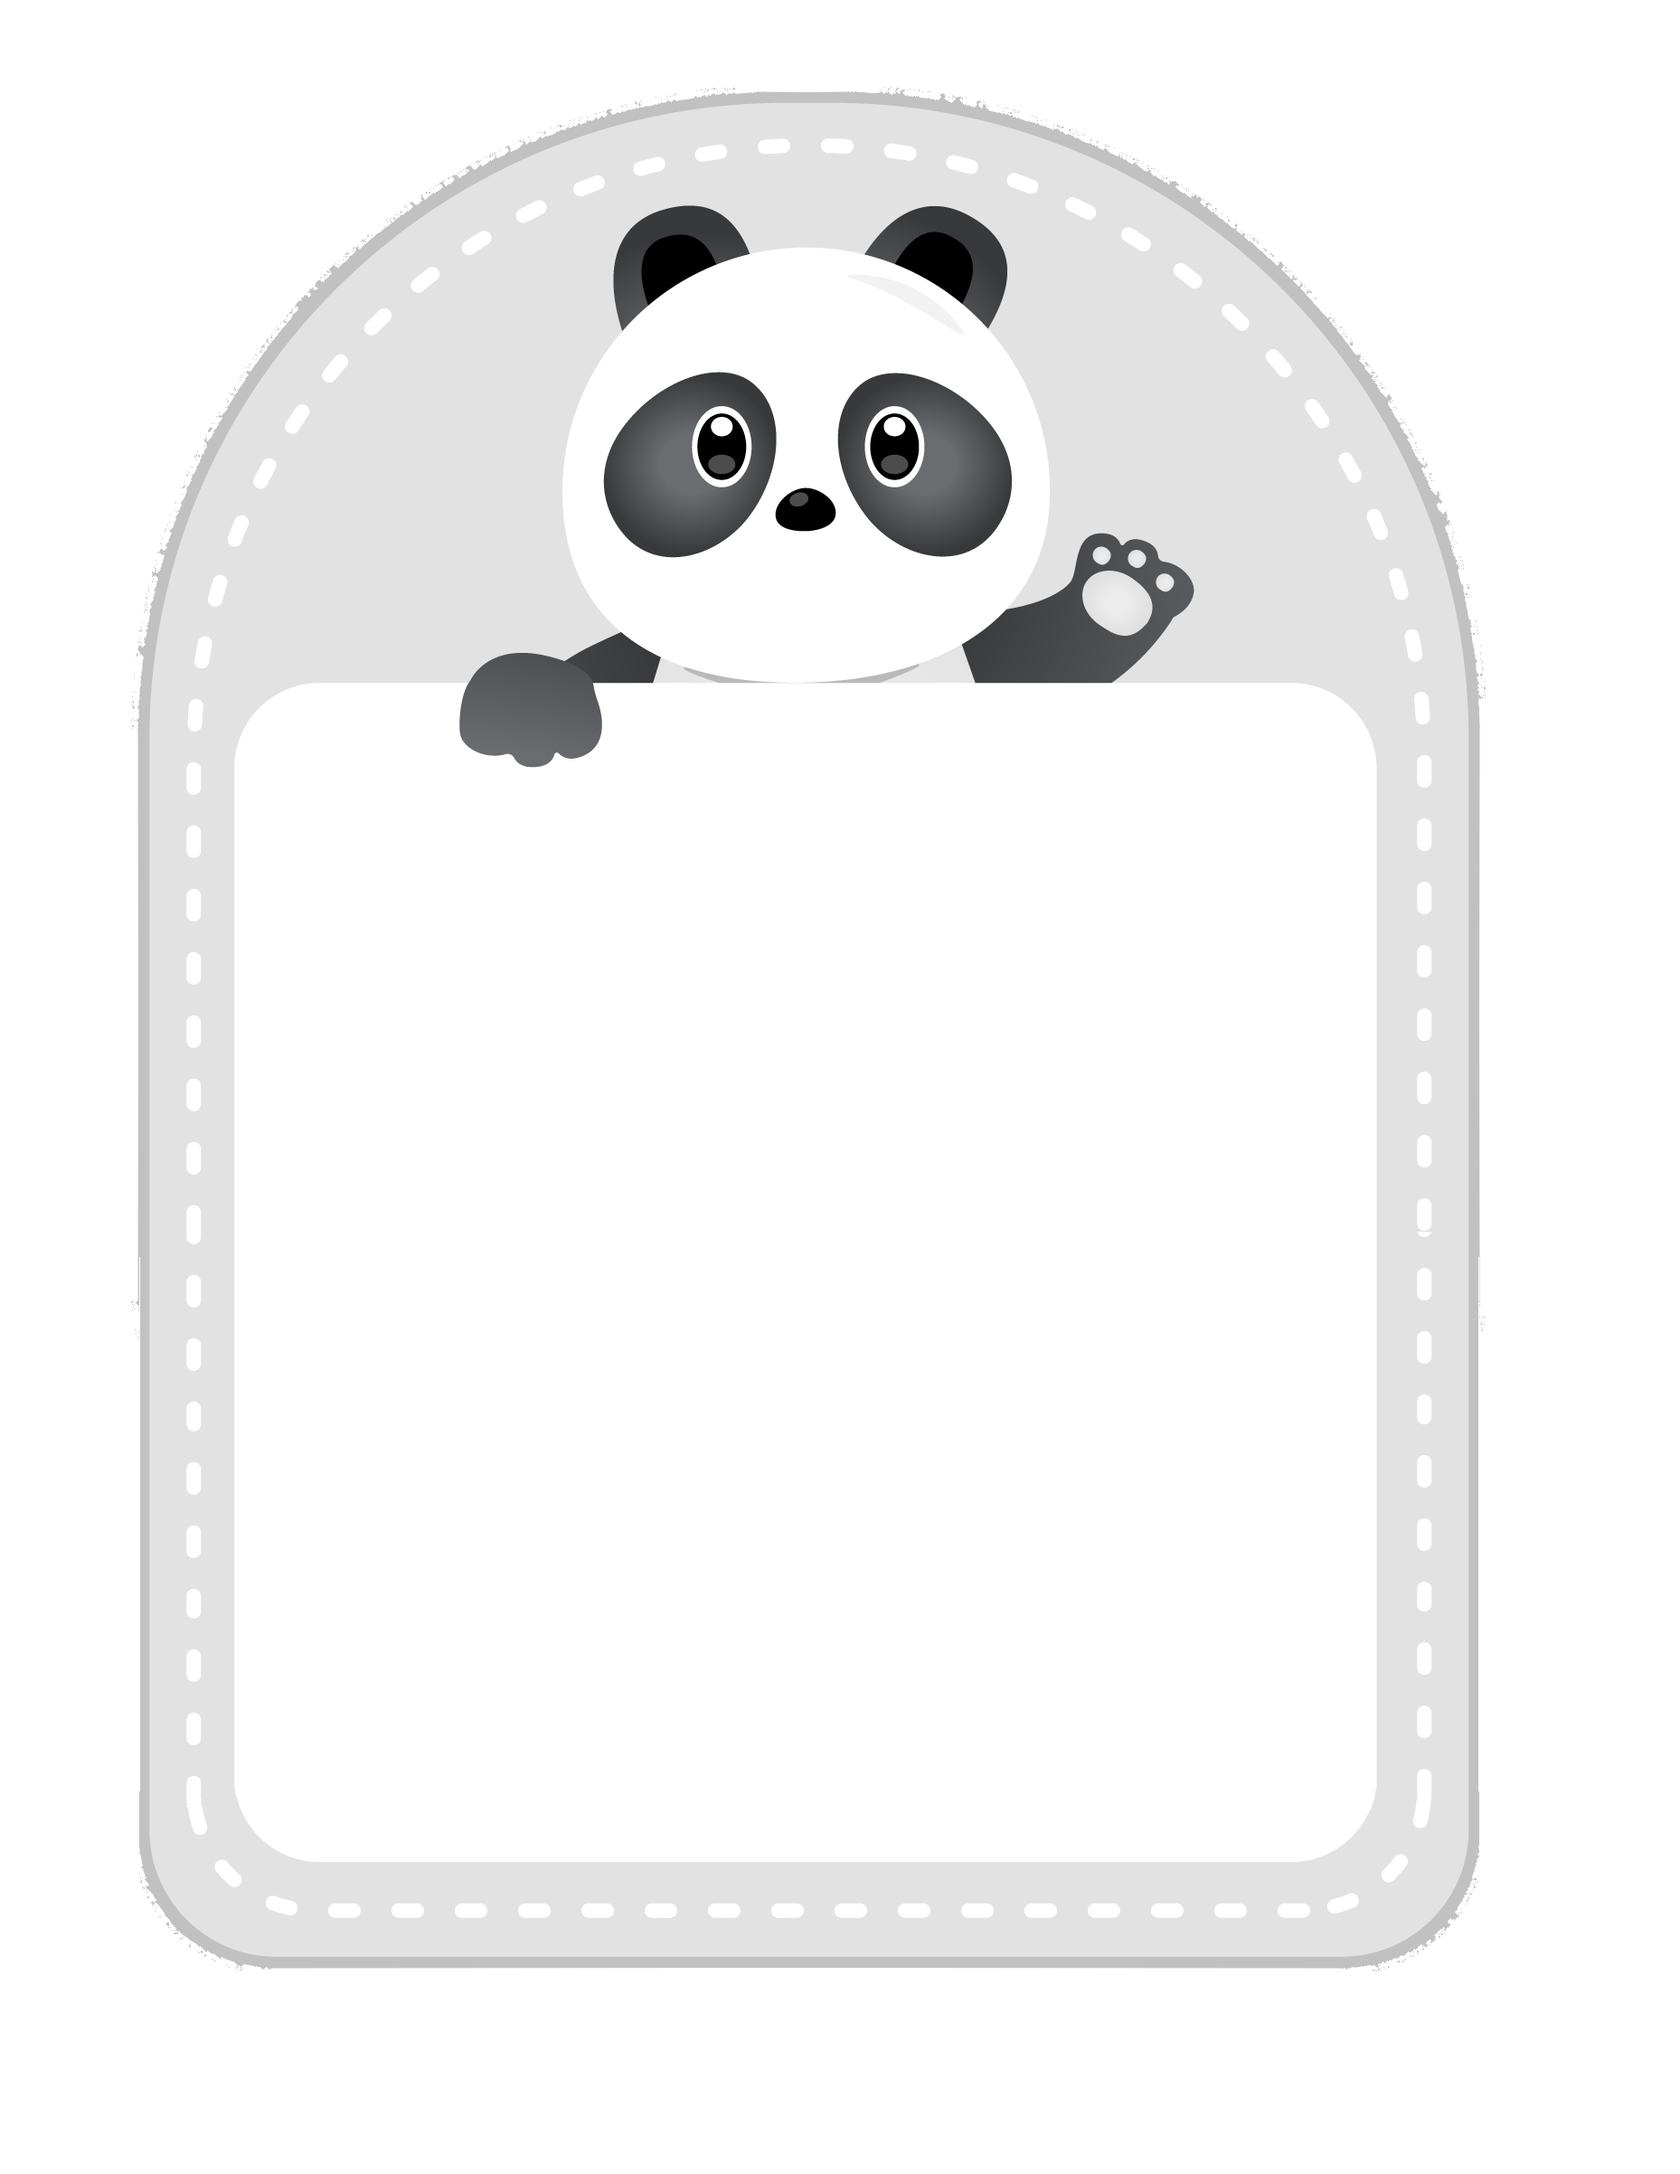
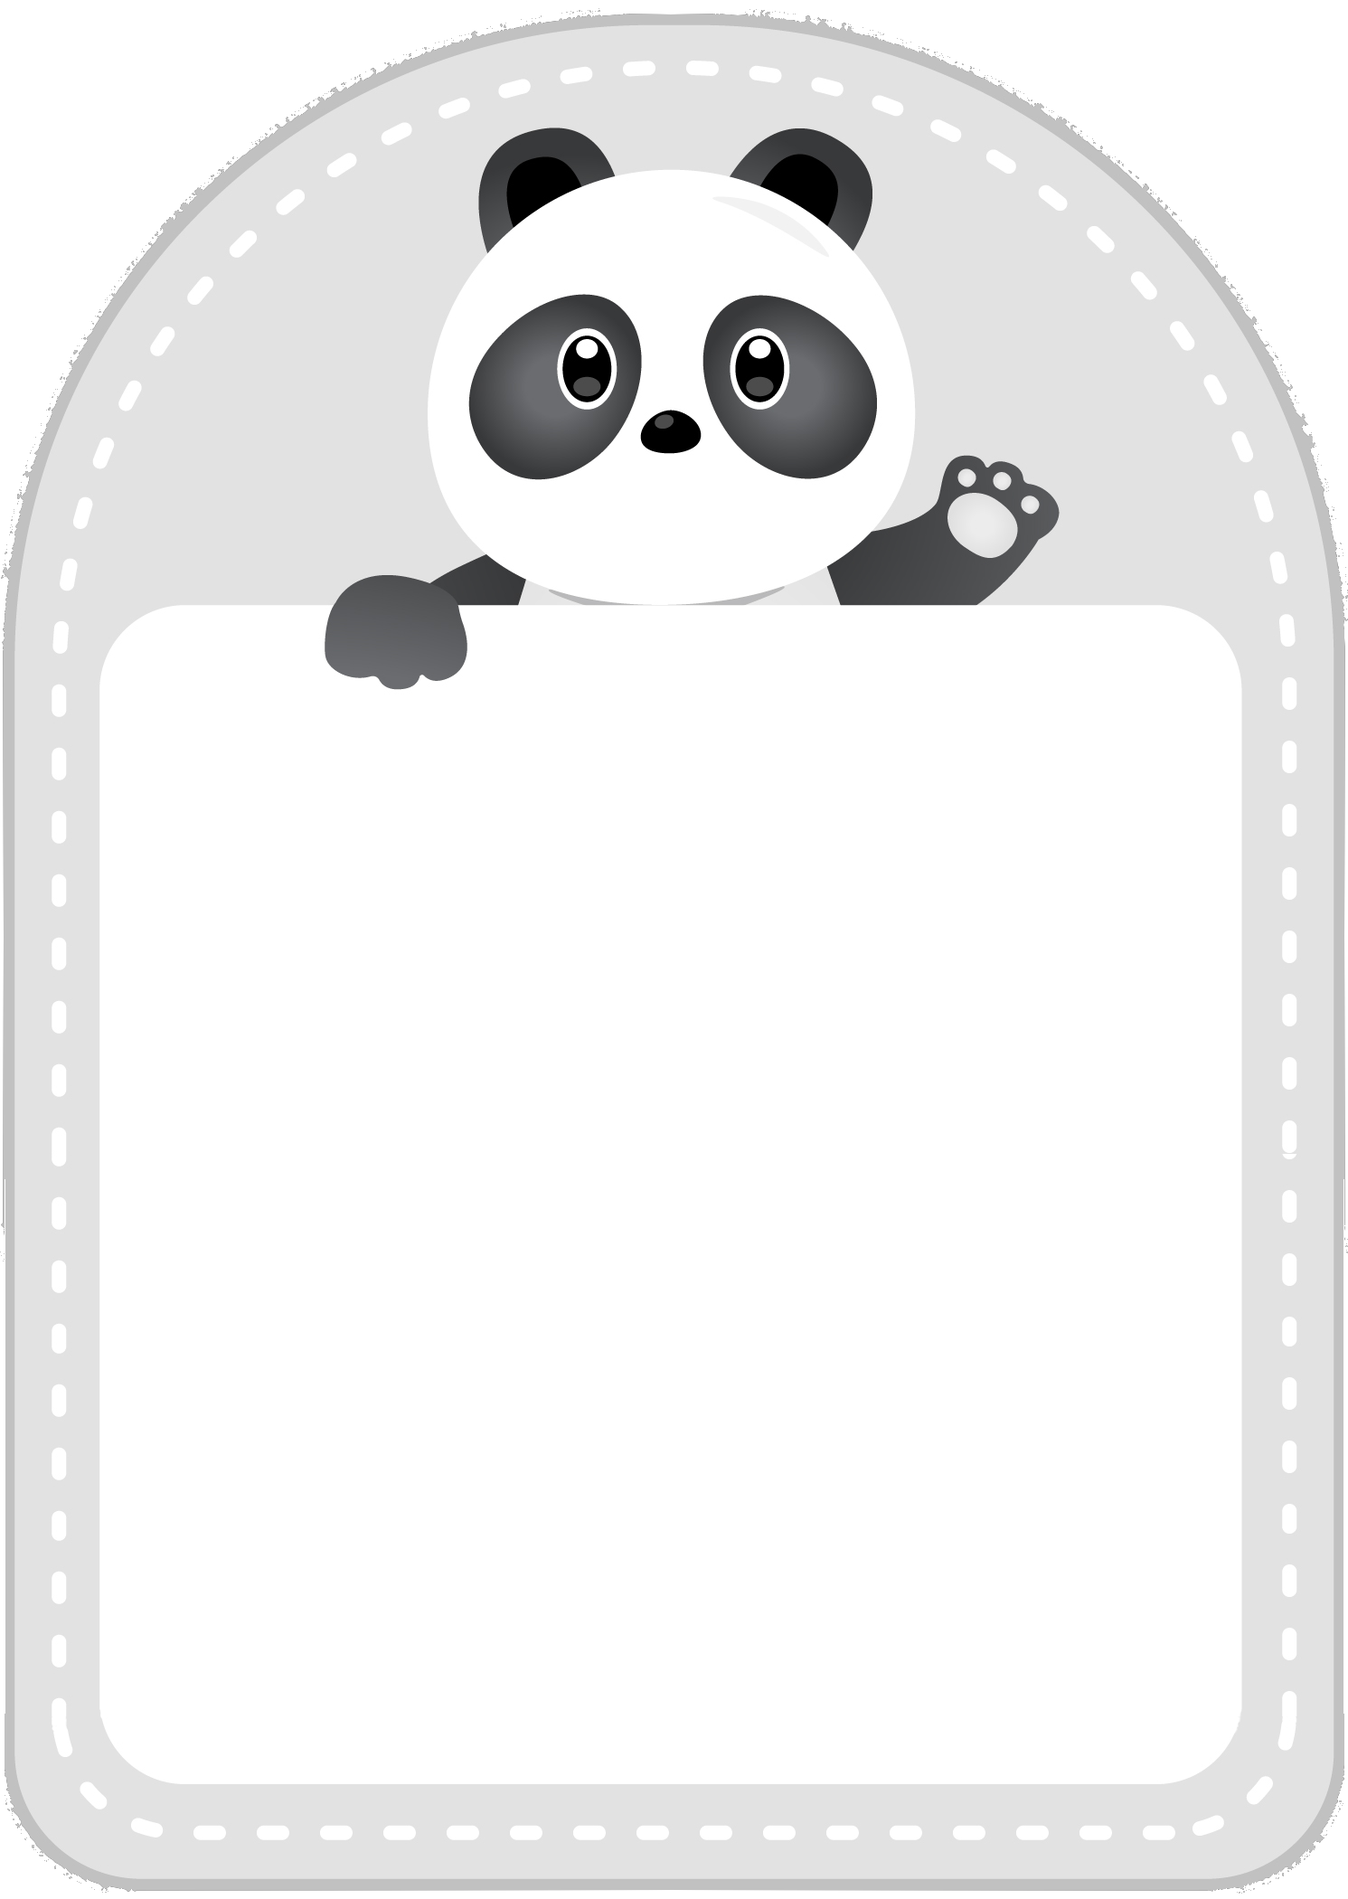
[FE] Fix : 랜딩폼 및 선생님|119 페이지 수정

diff --git a/Front-end/isix/src/pageComponents/landing/Landing.styled.tsx b/Front-end/isix/src/pageComponents/landing/Landing.styled.tsx
@@ -2,23 +2,37 @@ import styled, { css } from "styled-components";
 
 const TagContainer = styled.div`
   position: absolute;
-  top: 15%;
-  left: 35%;
-  width: 30%;
-  min-width: 420px;
-  height: 70%;
-  color: white;
+  top: 0;
+  left: 0;
+  right: 0;
+  bottom: 0;
+
+  width: 420px;
+  height: auto;
   padding: 0;
   margin: auto;
-  /* background-image: url('/resources/pandaform1.png');
-  background-repeat: no-repeat;
-  background-size: contain; */
-`
-const StyledStartFormContainer = styled.div`
-  width: 100%;
-  height: 100%;
-  background-color: white; opacity: 0.8;
+
   display: flex;
+  justify-content: center;
+  align-items: center;
+
+  background-image: url('/resources/pandaform2.png');
+  background-repeat: no-repeat;
+  background-size: contain;
+  background-position:center;
+`
+
+const StyledStartFormContainer = styled.div`
+  /* background-color: gray; */
+  
+  position: absolute;
+  width: 355px;
+  height: 350px;
+  padding: 0;
+  margin-top: 170px;
+
+  display: flex;
+  flex-direction: column;
   justify-content: center;
   align-items: center;
   border-radius: 20px;
@@ -27,54 +41,68 @@ const StyledStartFormContainer = styled.div`
 
 const StyledServiceName = styled.h1`
   color: black;
-  margin: 20px 0px 40px;
-  font-size: 46px;
+  margin: 20px 0px 10px;
+  font-size: 2.6rem;
 `
 
 const StyledStartForm = styled.div`
   display: flex;
-  width: 400px;
+  width: 95%;
   height: 70px;
   justify-content: space-between;
   align-items: center;
-  border: solid 1px;
+  border: solid 2px gray;
   color: black;
-  margin: 20px 0px;
-  border-radius: 20px;
+  margin: 10px 0px;
+  border-radius: 15px;
 `
 
 const StyledStartFormName = styled.p`
-  width: 150px;
+  width: 30%;
   height: 100%;
   display: flex;
   margin-left: 20px;
+  text-align: center;
   /* justify-content: center; */
   align-items: center;
-  font-size: 24px;
+  font-size: 26px;
   font-weight: bold;
 `
 
 const StyledStartFormInput = styled.input`
-  width: 240px;
+  width: 70%;
   height: 95%;
   border: none;
-  font-size: 20px;
+  font-size: 26px;
   margin-right: 10px;
-  
+  text-align: center;
+  font-family: "SDChild";
+
+  &::-webkit-inner-spin-button,
+  &::-webkit-outer-spin-button {
+    -webkit-transform: scale(1.8);
+    -moz-transform: scale(1.8);
+    -ms-transform: scale(1.8); 
+ }
 `
 
 const StyledStartFormButton = styled.div`
   display: flex;
-  width: 400px;
+  width: 337px;
   height: 70px;
   justify-content: center;
   align-items: center;
-  border: solid 1px;
   color: black;
-  margin: 20px 0px;
-  border-radius: 20px;
-  font-size: 24px;
-  font-weight: bo;
+  background-color: rgb(226, 226, 226);
+  margin: 10px 0px;
+  border-radius: 15px;
+  font-size: 30px;
+  font-weight: bold;
+
+  &:hover {
+    background-color: rgb(84, 85, 87);
+    color: white;
+  }
 `
 
 export { TagContainer, StyledStartFormContainer, StyledServiceName, StyledStartFormName, StyledStartForm, StyledStartFormInput, StyledStartFormButton };

diff --git a/Front-end/isix/src/pageComponents/landing/components/startform/index.tsx b/Front-end/isix/src/pageComponents/landing/components/startform/index.tsx
@@ -1,6 +1,5 @@
 "use client"
 
-import React, { useEffect, useState } from 'react';
 import useUserInfoStore from '@/stores/mypage/useUserInfoStore';
 import Link from 'next/link';
 import { TagContainer, StyledStartFormButton, StyledStartFormInput, StyledStartFormContainer, StyledServiceName, StyledStartFormName, StyledStartForm } from '../../Landing.styled';
@@ -8,7 +7,6 @@ import { TagContainer, StyledStartFormButton, StyledStartFormInput, StyledStartF
 export default function StartForm() {
   const {
     kindergarten, setKindergarten,
-    className, setClassName,
     people, setPeople
   } = useUserInfoStore();
 
@@ -16,9 +14,9 @@ export default function StartForm() {
     setKindergarten(e.target.value);
   }
 
-  const saveClass = (e: React.ChangeEvent<HTMLInputElement>) => {
-    setClassName(e.target.value);
-  }
+  // const saveClass = (e: React.ChangeEvent<HTMLInputElement>) => {
+  //   setClassName(e.target.value);
+  // }
   
   const savePeople = (e: React.ChangeEvent<HTMLInputElement>) => {
     const value = Number(e.target.value);
@@ -32,7 +30,7 @@ export default function StartForm() {
   }
 
   const checkLink = (e: React.MouseEvent<HTMLAnchorElement>) => {
-    if (kindergarten === '' || className === '') {
+    if (kindergarten === '') {
       e.preventDefault();
       alert('항목을 모두 입력해주세요')
     }
@@ -41,28 +39,26 @@ export default function StartForm() {
   return (
     <TagContainer>
       <StyledStartFormContainer>
-        <div>
         <StyledServiceName>아이와 함께, U-AI</StyledServiceName>
 
         <StyledStartForm>
-          <StyledStartFormName>유치원</StyledStartFormName>
+          <StyledStartFormName>단체명</StyledStartFormName>
           <StyledStartFormInput onChange={saveKinder}/>
         </StyledStartForm>
-        <StyledStartForm>
+        {/* <StyledStartForm>
           <StyledStartFormName>반</StyledStartFormName>
           <StyledStartFormInput onChange={saveClass}/>
-        </StyledStartForm>
+        </StyledStartForm> */}
         <StyledStartForm>
           <StyledStartFormName>인원 수</StyledStartFormName>
           <StyledStartFormInput value={people} type='number' max={6} min={1} step={1} onPaste={(e) => e.preventDefault()} onChange={savePeople}/>
         </StyledStartForm>
 
-        <StyledStartFormButton>
-          <Link href='/main' prefetch={true} passHref onClick={checkLink}> 
+        <Link href='/main' prefetch={true} passHref onClick={checkLink}> 
+          <StyledStartFormButton>
             시작하기
-          </Link> 
-        </StyledStartFormButton>
-        </div>
+          </StyledStartFormButton>
+        </Link>     
       </StyledStartFormContainer>
     </TagContainer>
   );

diff --git a/Front-end/isix/src/stores/mypage/useUserInfoStore.tsx b/Front-end/isix/src/stores/mypage/useUserInfoStore.tsx
@@ -3,20 +3,20 @@ import { persist } from 'zustand/middleware';
 
 export interface UserInfoType {
   kindergarten: string;
-  className: string;
+  // className: string;
   people: number;
   setKindergarten: (value: string) => void;
-  setClassName: (value: string) => void;
+  // setClassName: (value: string) => void;
   setPeople: (value: number) => void;
 }
 
 const useUserInfoStore = create<UserInfoType>()(
   persist((set) => ({
     kindergarten: '',
-    className: '',
+    // className: '',
     people: 3, // 일단 사람 초기값 3으로 설정
     setKindergarten: (value) => set({ kindergarten: value }),
-    setClassName: (value) => set({ className: value }),
+    // setClassName: (value) => set({ className: value }),
     setPeople: (value) => set({ people: value }),
   }), {
     name: 'userInfo', // 스토어 이름

diff --git a/Front-end/isix/src/pageComponents/fire/components/story/final/final1/index.tsx b/Front-end/isix/src/pageComponents/fire/components/story/final/final1/index.tsx
@@ -1,7 +1,7 @@
-import Image from "next/image";
 import { BorderHeight, BorderWidth, StyledBorders, StyledCamImg, StyledCamText, StyledStoryCam } from "../../Story.styled"
 import CamComponent from "@/commonComponents/story/camComponent"
 import AudioPlayer from "@/commonComponents/story/audioComponent";
+import useUserInfoStore from "@/stores/mypage/useUserInfoStore";
 
 interface WebcamProps {
   videoElm: JSX.Element;
@@ -11,7 +11,8 @@ interface WebcamProps {
 }
 
 const Final1: React.FC<WebcamProps> = ({ startStream, stopStream, videoElm, hiddenCanvasElm }) => {
-  const text: string = `너무 잘했어요!`
+  const kindergarten = useUserInfoStore((state) => state.kindergarten);
+  const text: string = `${kindergarten} 여러분, 참 잘했어요!`
   const audioUrl: string = '/resources/audioFile/final1.mp3'
 
   return (

diff --git a/Front-end/isix/src/pageComponents/fire/components/story/scene8/seq24/index.tsx b/Front-end/isix/src/pageComponents/fire/components/story/scene8/seq24/index.tsx
@@ -36,7 +36,7 @@ const Seq24: React.FC<WebcamProps> = ({ startStream, stopStream, videoElm, hidde
         setLeft(response.data.left)
         setRight(response.data.right)
         if (timer === 0) {
-          if (response.data.left > response.data.right) {
+          if (response.data.left < response.data.right) {
             setState(state + 1)
           } else {
             setAudioUrl('/resources/audioFile/incorrect.mp3');

diff --git a/Front-end/isix/src/pageComponents/ending/Ending.Styled.tsx b/Front-end/isix/src/pageComponents/ending/Ending.Styled.tsx
@@ -6,10 +6,7 @@ export const ImageGrid = styled.div`
   grid-template-columns: repeat(2,1fr);
   grid-gap: 10px;
   position: relative;
-  /* top: 3vh;
-  left: 3vw; */
   width: 100%;
-  /* height: 100%; */
   height: 85%;
 `;
 
